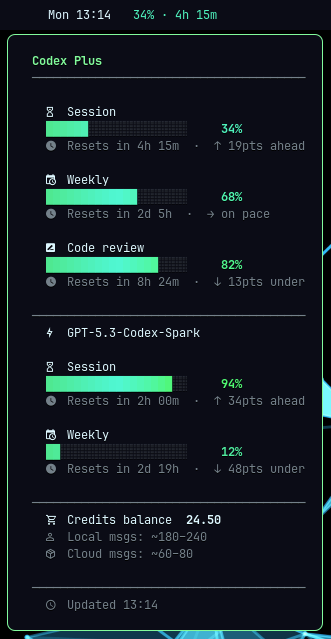
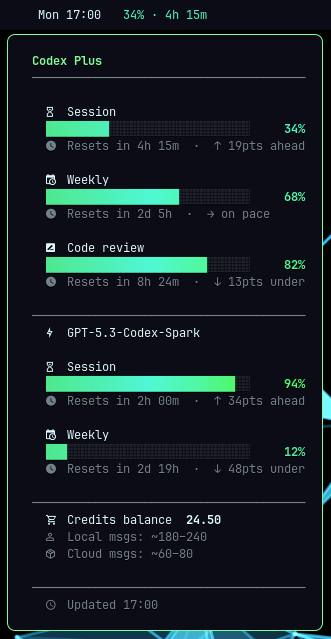
feat: the tooltip meter reaches the right edge
The percentage floated in the middle of the meter block while the line
below it ran further right. The frame used to give the block its right
edge; when the frame went, the bar stayed pinned at 20 cells.

A meter row is now <indent><bar><gap><value>, with the value right-
aligned on the tooltip's right edge and the bar length derived from it.
One bar length for the whole tooltip, so the stacked meters stay
comparable. Meters park a METER:<i> placeholder and the width pass
resolves them; that pass skips the parked rows, or the measurement
would be circular.

Also: the Omarchy theme gallery was a bare row of images with no theme
names, while the Waybar gallery above it named every one. It is now the
same labelled table.

diff --git a/README.md b/README.md
@@ -233,14 +233,13 @@ The Waybar tooltip follows the same theme:
 
 And so does the Omarchy panel:
 
-<p align="center">
-  <img src="screenshots/omarchy-theme-flexoki-light.png" alt="Flexoki Light" width="200">
-  <img src="screenshots/omarchy-theme-rose-pine.png" alt="Rosé Pine" width="200">
-  <img src="screenshots/omarchy-theme-hackerman.png" alt="Hackerman" width="200">
-  <img src="screenshots/omarchy-theme-ristretto.png" alt="Ristretto" width="200">
-  <img src="screenshots/omarchy-theme-nord.png" alt="Nord" width="200">
-  <img src="screenshots/omarchy-theme-kanagawa.png" alt="Kanagawa" width="200">
-</p>
+| Flexoki Light | Rosé Pine | Hackerman |
+|:---:|:---:|:---:|
+| ![Flexoki Light](screenshots/omarchy-theme-flexoki-light.png) | ![Rosé Pine](screenshots/omarchy-theme-rose-pine.png) | ![Hackerman](screenshots/omarchy-theme-hackerman.png) |
+
+| Ristretto | Nord | Kanagawa |
+|:---:|:---:|:---:|
+| ![Ristretto](screenshots/omarchy-theme-ristretto.png) | ![Nord](screenshots/omarchy-theme-nord.png) | ![Kanagawa](screenshots/omarchy-theme-kanagawa.png) |
 
 A theme can give its colors these names (`green`, `yellow`, `orange`, `red`), or it can use the old names (`color1`, `color2`, `color3`). codexbar prefers the names, because the names show a difference between red and orange, and the gauge needs the two colors. codexbar ignores a color that is not valid, and that color keeps its default value.
 

diff --git a/CLAUDE.md b/CLAUDE.md
@@ -7,6 +7,8 @@
 
 ## Non-Obvious Rules
 
+- **A tooltip meter is PARKED, not rendered in place.** The bar has to reach the tooltip's right edge, and that edge is the widest TEXT line — which does not exist yet while the lines are being collected. So a meter pushes `METER:<i>` into `lines` plus one entry in the parallel `meter_*` arrays, and the width pass resolves it. The width pass MUST skip `METER:` lines, or the measurement is circular. Every meter in one tooltip gets the SAME bar length: they stack, so a reader compares them against each other.
+
 - The script must ALWAYS exit 0 and output valid Waybar JSON (`{text, tooltip, class}`), even on errors — use the `die()` helper for error paths
 - Tooltip markup is Pango (not HTML) — Waybar renders it via GTK/Pango
 - Bar text is also wrapped in Pango `<span>` for coloring
